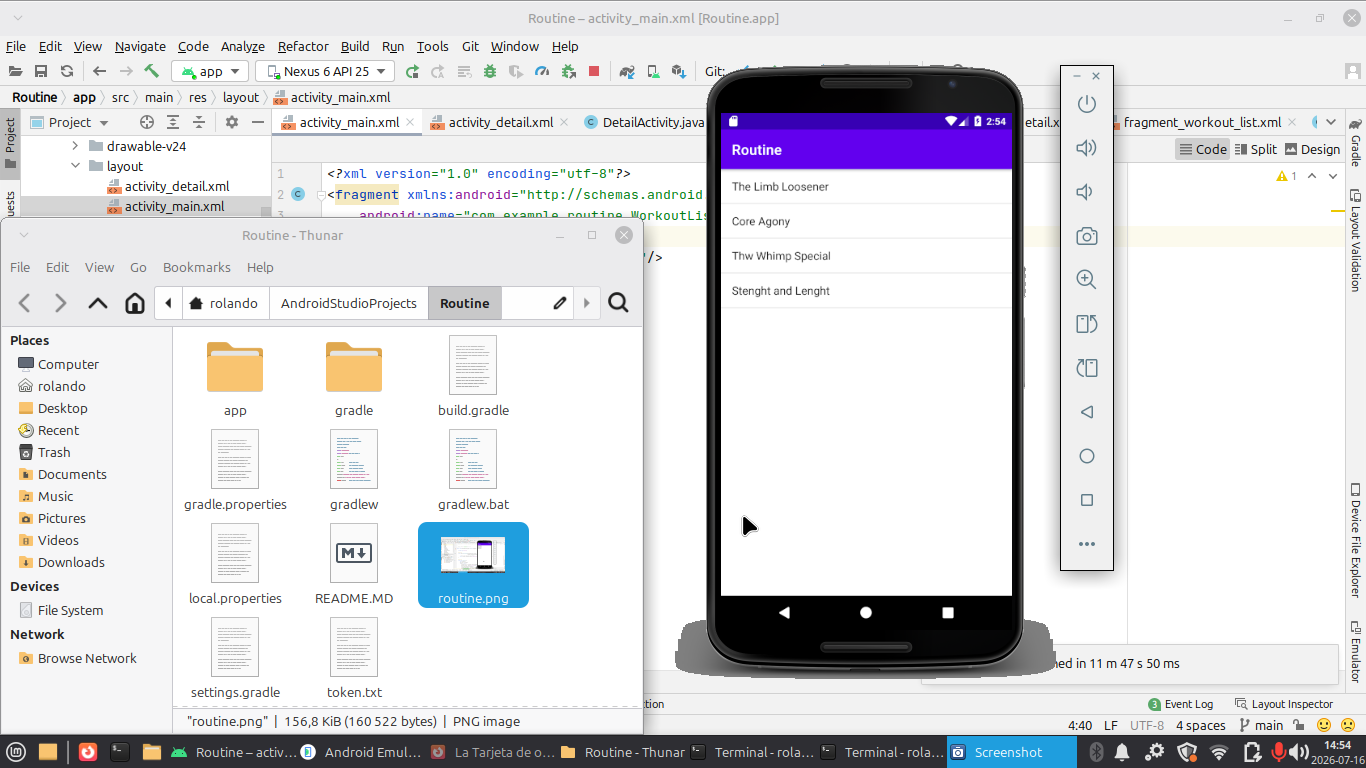
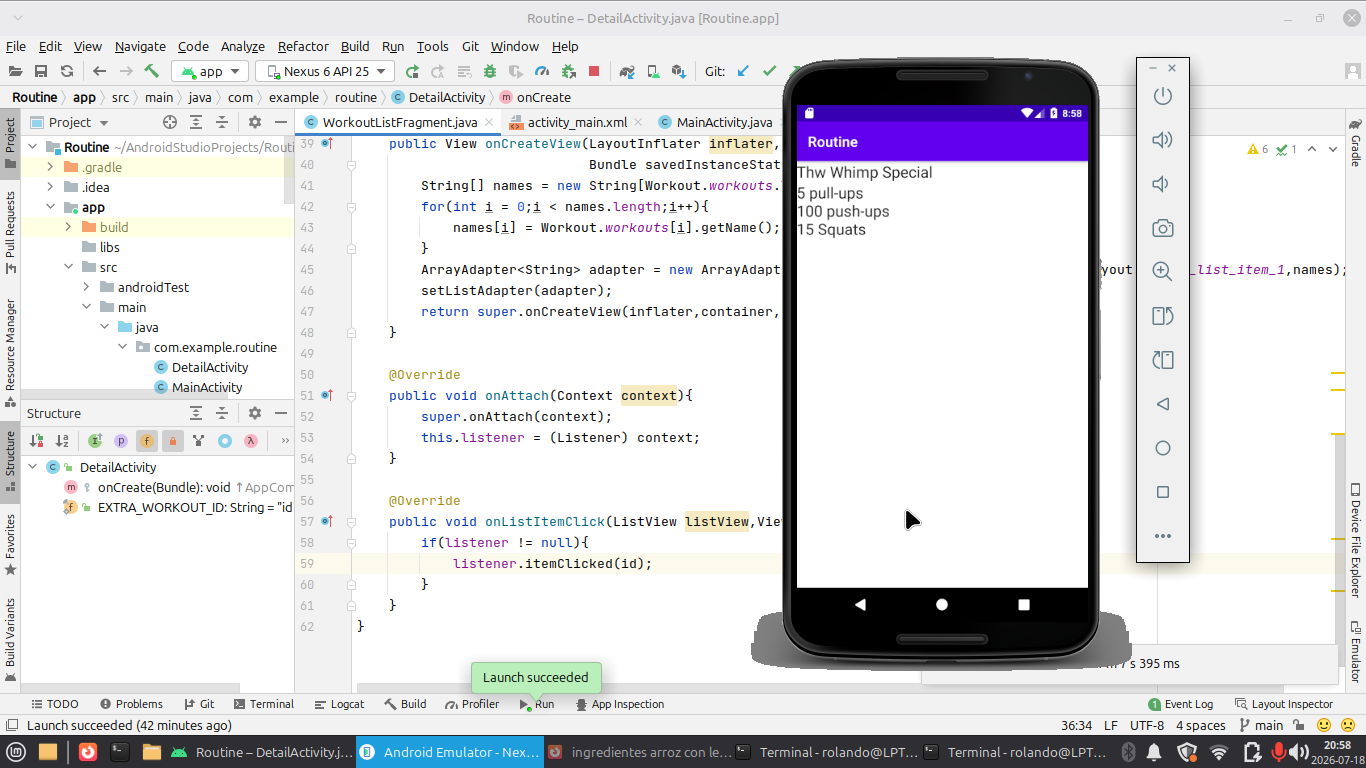
every time Im falling down ..

diff --git a/app/src/main/cpp/routine.cpp b/app/src/main/cpp/routine.cpp
@@ -1,0 +1,17 @@
+// Write C++ code here.
+//
+// Do not forget to dynamically load the C++ library into your application.
+//
+// For instance,
+//
+// In MainActivity.java:
+//    static {
+//       System.loadLibrary("routine");
+//    }
+//
+// Or, in MainActivity.kt:
+//    companion object {
+//      init {
+//         System.loadLibrary("routine")
+//      }
+//    }